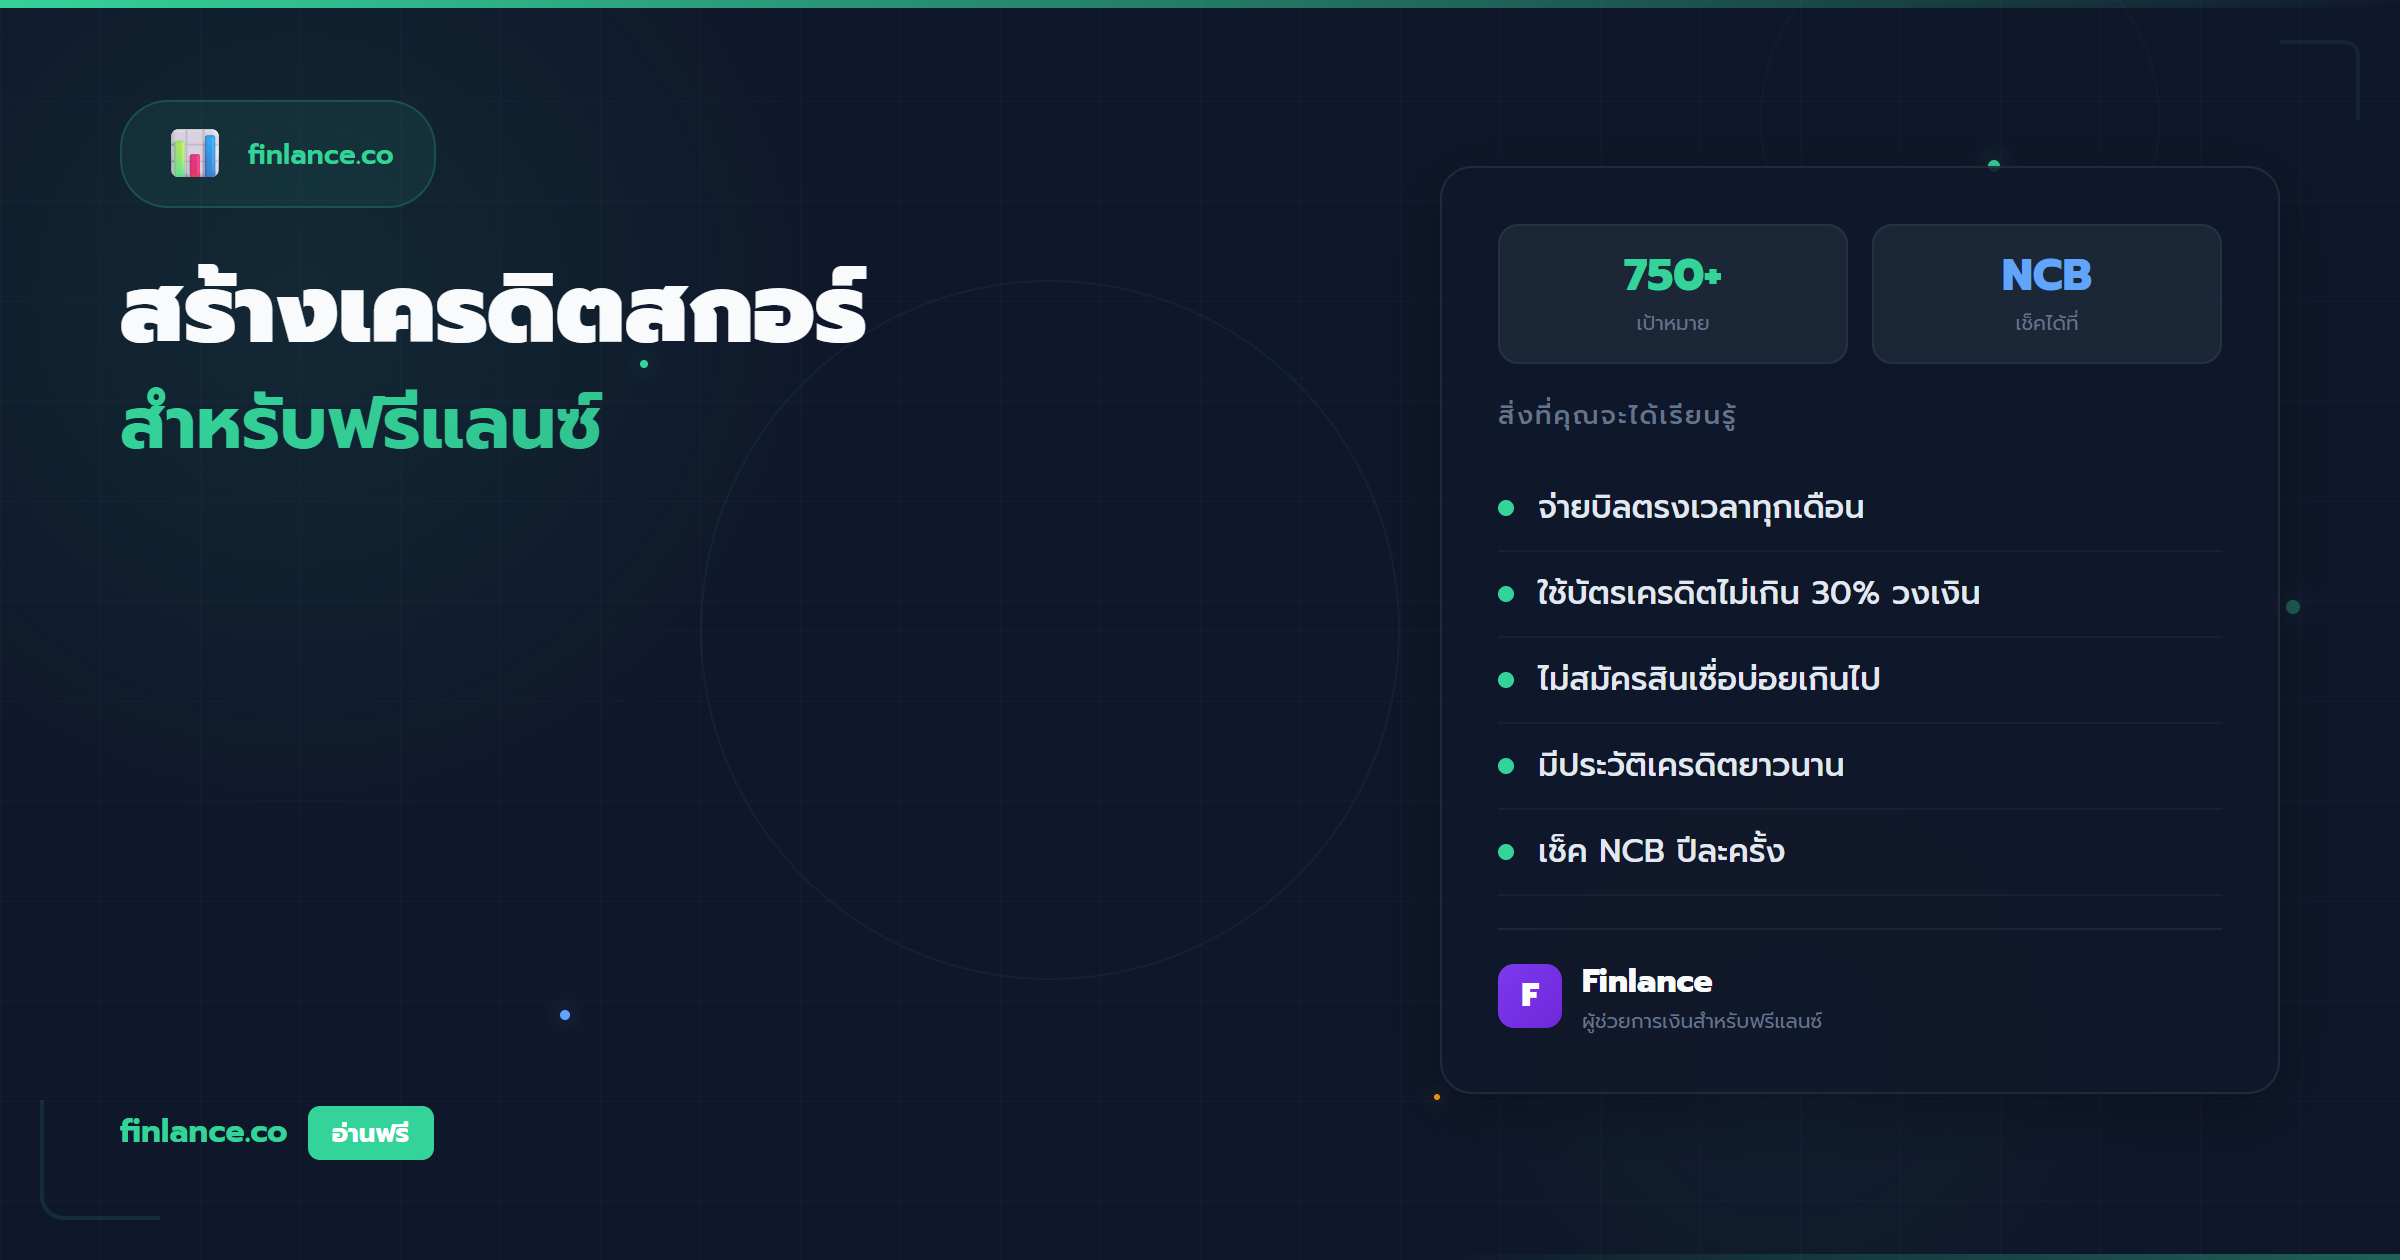
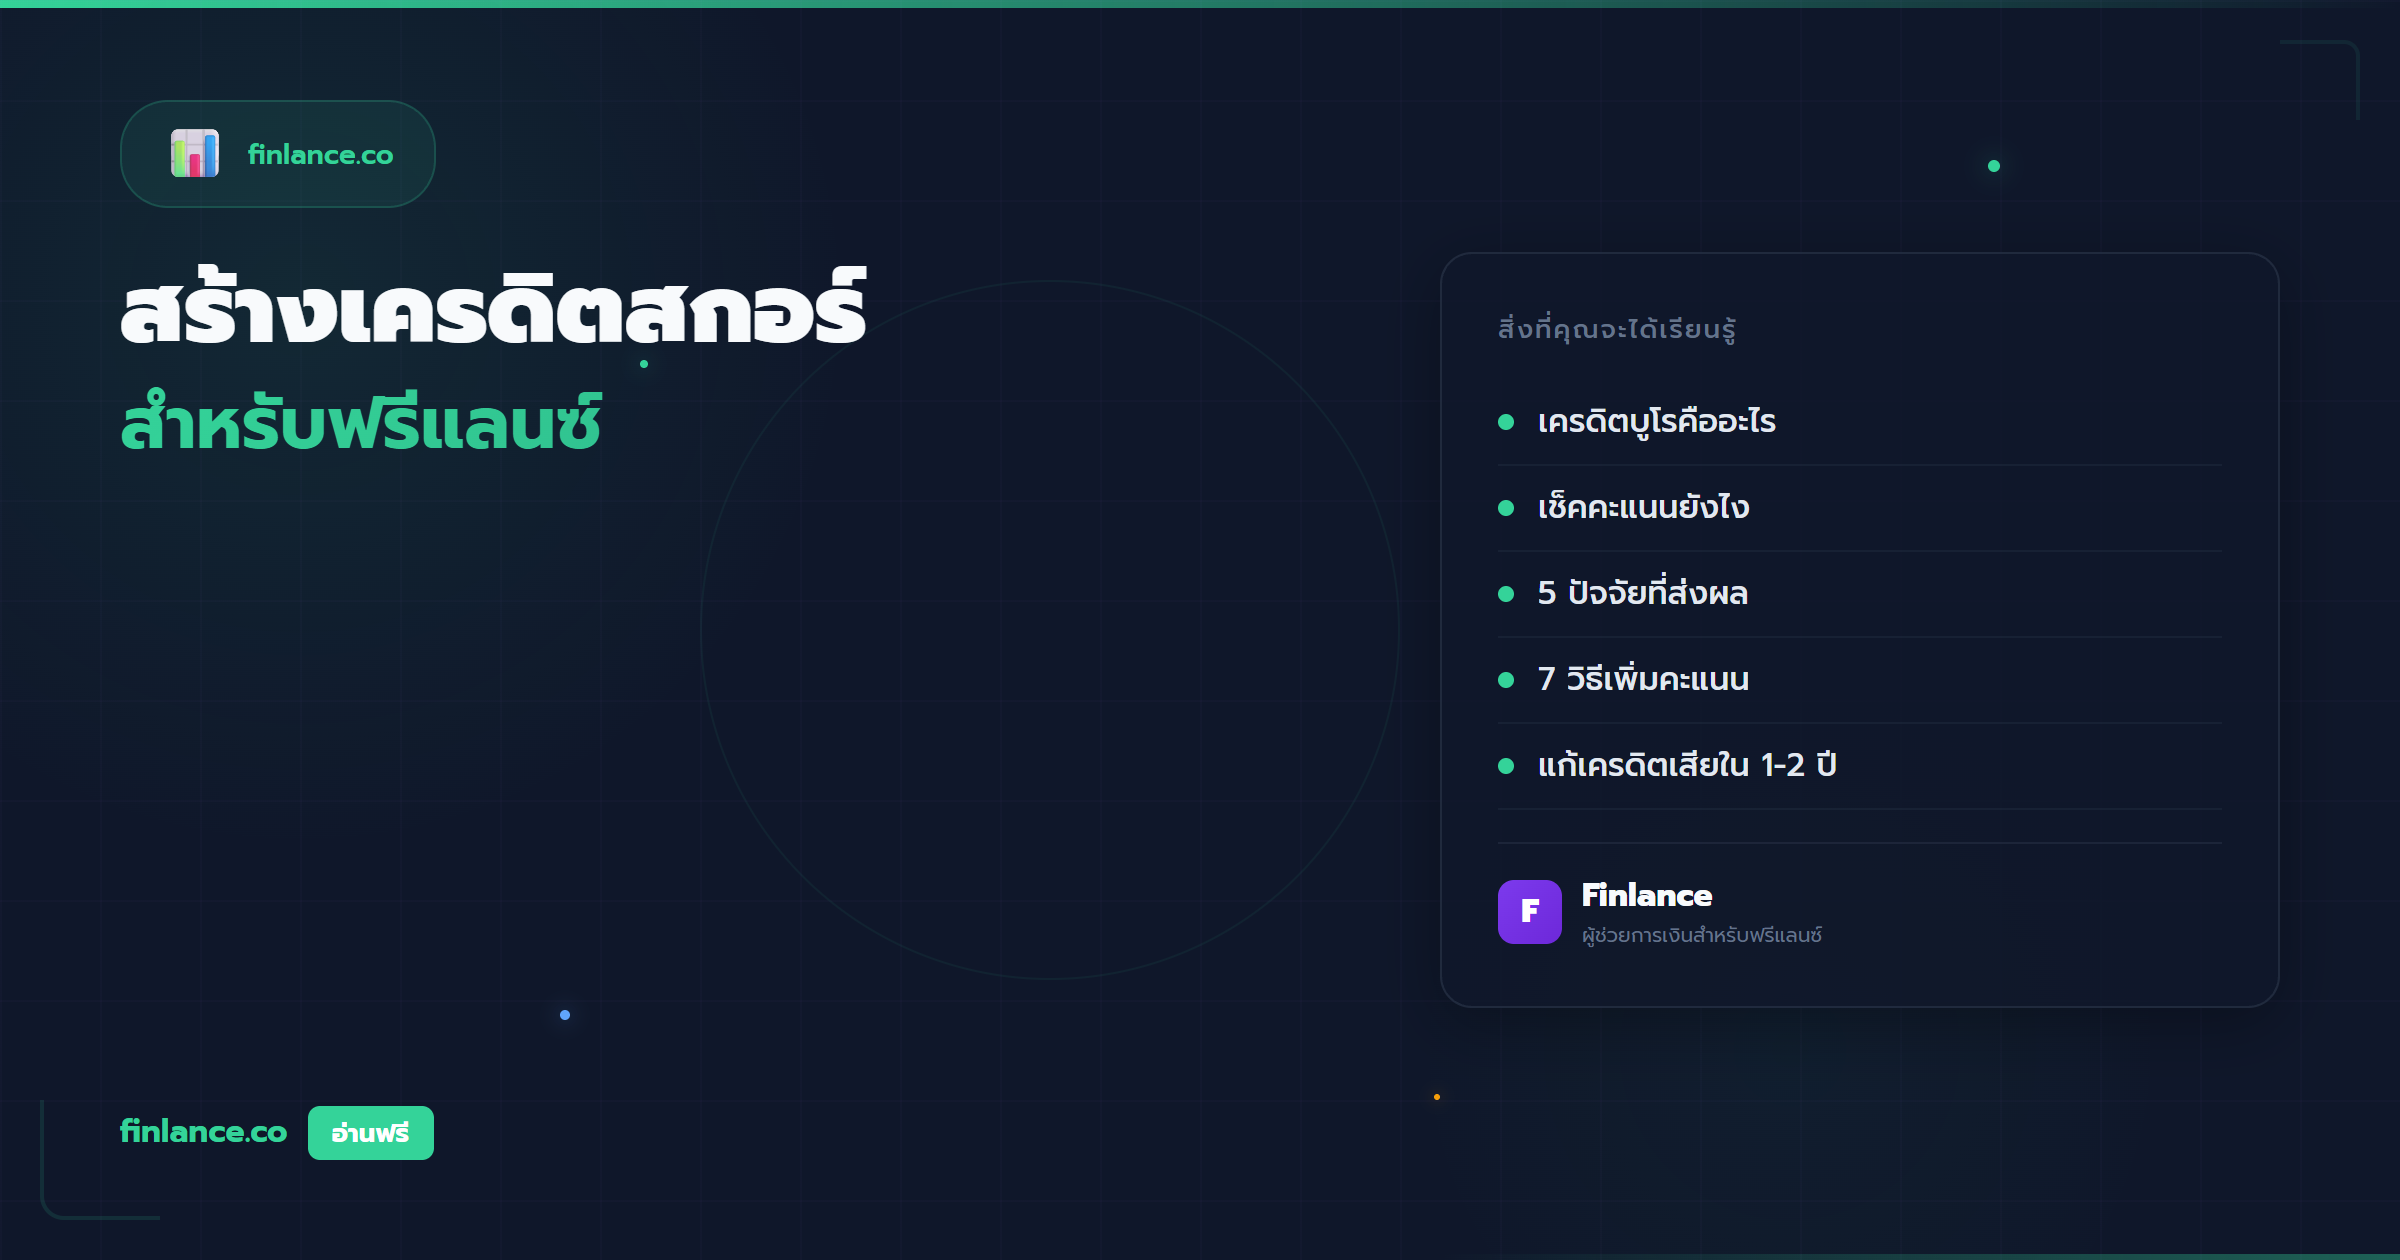
Render Day 2 covers as PNG via Puppeteer — matching quality
All 6 remaining Day 2 covers now use Puppeteer-rendered PNGs
with rich backgrounds, grid, floating dots, gradient bars.
Matches quality of Day 2 articles 1-4.

diff --git a/src/app/blog/page.tsx b/src/app/blog/page.tsx
@@ -16,12 +16,12 @@ export const metadata: Metadata = {
 };
 
 const posts = [
-  { slug: "freelance-stock-investment-guide", title: "ลงทุนหุ้นสำหรับฟรีแลนซ์ เริ่มต้นยังไงเมื่อรายได้ไม่แน่นอน", excerpt: "เปิดบัญชีหุ้น เลือกหุ้นปันผล ETF จัดพอร์ต และหลีกเลี่ยงข้อผิดพลาดมือใหม่", coverImage: "/blog/covers/stock-investment.svg", date: "2026-06-17" },
-  { slug: "freelance-life-insurance-savings", title: "ประกันชีวิตแบบออมทรัพย์สำหรับฟรีแลนซ์ คุ้มไหม เลือกยังไง", excerpt: "เปรียบเทียบสะสมทรัพย์ ยูนิตลิงค์ ตลอดชีพ วิธีลดหย่อนภาษี 100,000 บาท", coverImage: "/blog/covers/life-insurance-savings.svg", date: "2026-06-17" },
-  { slug: "freelance-refinance-guide", title: "รีไฟแนนซ์สินเชื่อสำหรับฟรีแลนซ์ คุ้มไหม เมื่อไหร่ควรทำ", excerpt: "คำนวณจุดคุ้มทุน เปรียบเทียบรีไฟแนนซ์บ้าน รถ บัตรเครดิต", coverImage: "/blog/covers/refinance.svg", date: "2026-06-17" },
-  { slug: "freelance-credit-score-building", title: "ฟรีแลนซ์สร้างเครดิตสกอร์ยังไง คู่มือเพิ่มคะแนนเครดิตบูโร", excerpt: "เครดิตบูโรคืออะไร วิธีเช็ค ปัจจัยที่ส่งผล 7 วิธีเพิ่มคะแนน", coverImage: "/blog/covers/credit-score.svg", date: "2026-06-16" },
-  { slug: "freelance-business-bank-account", title: "เปิดบัญชีธุรกิจสำหรับฟรีแลนซ์ ธนาคารไหนดี", excerpt: "เปรียบเทียบ กสิกร SCB กรุงไทย BBL TTB วิธีเปิดบัญชี PromptPay ธุรกิจ", coverImage: "/blog/covers/business-bank-account.svg", date: "2026-06-16" },
-  { slug: "freelance-credit-card-guide", title: "บัตรเครดิตสำหรับฟรีแลนซ์ สมัครยังไงให้ผ่าน", excerpt: "เปรียบเทียบ 5 บัตร เอกสาร เทคนิคเพิ่มโอกาสผ่าน วิธีใช้อย่างฉลาด", coverImage: "/blog/covers/credit-card.svg", date: "2026-06-16" },
+  { slug: "freelance-stock-investment-guide", title: "ลงทุนหุ้นสำหรับฟรีแลนซ์ เริ่มต้นยังไงเมื่อรายได้ไม่แน่นอน", excerpt: "เปิดบัญชีหุ้น เลือกหุ้นปันผล ETF จัดพอร์ต และหลีกเลี่ยงข้อผิดพลาดมือใหม่", coverImage: "/blog/covers/stock-investment.png", date: "2026-06-17" },
+  { slug: "freelance-life-insurance-savings", title: "ประกันชีวิตแบบออมทรัพย์สำหรับฟรีแลนซ์ คุ้มไหม เลือกยังไง", excerpt: "เปรียบเทียบสะสมทรัพย์ ยูนิตลิงค์ ตลอดชีพ วิธีลดหย่อนภาษี 100,000 บาท", coverImage: "/blog/covers/life-insurance-savings.png", date: "2026-06-17" },
+  { slug: "freelance-refinance-guide", title: "รีไฟแนนซ์สินเชื่อสำหรับฟรีแลนซ์ คุ้มไหม เมื่อไหร่ควรทำ", excerpt: "คำนวณจุดคุ้มทุน เปรียบเทียบรีไฟแนนซ์บ้าน รถ บัตรเครดิต", coverImage: "/blog/covers/refinance.png", date: "2026-06-17" },
+  { slug: "freelance-credit-score-building", title: "ฟรีแลนซ์สร้างเครดิตสกอร์ยังไง คู่มือเพิ่มคะแนนเครดิตบูโร", excerpt: "เครดิตบูโรคืออะไร วิธีเช็ค ปัจจัยที่ส่งผล 7 วิธีเพิ่มคะแนน", coverImage: "/blog/covers/credit-score.png", date: "2026-06-16" },
+  { slug: "freelance-business-bank-account", title: "เปิดบัญชีธุรกิจสำหรับฟรีแลนซ์ ธนาคารไหนดี", excerpt: "เปรียบเทียบ กสิกร SCB กรุงไทย BBL TTB วิธีเปิดบัญชี PromptPay ธุรกิจ", coverImage: "/blog/covers/business-bank-account.png", date: "2026-06-16" },
+  { slug: "freelance-credit-card-guide", title: "บัตรเครดิตสำหรับฟรีแลนซ์ สมัครยังไงให้ผ่าน", excerpt: "เปรียบเทียบ 5 บัตร เอกสาร เทคนิคเพิ่มโอกาสผ่าน วิธีใช้อย่างฉลาด", coverImage: "/blog/covers/credit-card.png", date: "2026-06-16" },
   { slug: "freelance-home-loan-mortgage-guide", title: "ฟรีแลนซ์กู้บ้านยังไงให้ผ่าน", excerpt: "คู่มือกู้บ้านสำหรับฟรีแลนซ์ เตรียมเอกสาร เพิ่มโอกาสผ่าน ดอกเบี้ย และข้อควรระวัง", coverImage: "/blog/covers/home-loan-mortgage.png", date: "2026-06-14" },
   { slug: "freelance-credit-card-application-guide", title: "ฟรีแลนซ์สมัครบัตรเครดิตได้ไหม ทำยังไงให้ผ่าน", excerpt: "เงื่อนไข เอกสาร บัตรที่สมัครง่าย และเคล็ดลับเพิ่มโอกาสผ่านสำหรับฟรีแลนซ์", coverImage: "/blog/covers/credit-card-application.png", date: "2026-06-13" },
   { slug: "freelance-car-loan-guide", title: "ฟรีแลนซ์กู้รถ เตรียมเอกสารยังไง", excerpt: "เอกสาร ดาวน์ขั้นต่ำ ดอกเบี้ย ระยะเวลาผ่อน และกฎ 20% ที่ช่วยให้ผ่อนสบาย", coverImage: "/blog/covers/car-loan.png", date: "2026-06-12" },
@@ -106,7 +106,7 @@ const posts = [
   { slug: "freelance-savings-high-yield-account", title: "บัญชีออมทรัพย์ดอกเบี้ยสูง 2569 ฟรีแลนซ์เก็บเงินที่ไหนดี", excerpt: "เปรียบเทียบบัญชีออมทรัพย์ดอกเบี้ยสูงในไทย 2569 TTB ME Save, KBank MAKE, SCB EasyApp พร้อมแนะนำกลยุทธ์ฝากเงินสำหรับฟรีแลนซ์", coverImage: "/blog/covers/savings-account.svg", date: "2026-04-08" },
   { slug: "freelance-coworking-space-vs-home", title: "Co-working Space vs ทำงานที่บ้าน เปรียบเทียบต้นทุนและประสิทธิภาพ", excerpt: "ทำงานที่บ้านหรือไป co-working space ดีกว่ากัน? เปรียบเทียบต้นทุน ประสิทธิภาพ และความเหมาะสมสำหรับฟรีแลนซ์แต่ละประเภท", coverImage: "/blog/covers/coworking.svg", date: "2026-04-07" },
   { slug: "freelance-retainer-contract-recurring-income", title: "Retainer Contract สร้างรายได้ประจำสำหรับฟรีแลนซ์", excerpt: "หยุดหาลูกค้าใหม่ทุกเดือน เรียนรู้วิธีสร้าง Retainer Contract ที่ให้รายได้สม่ำเสมอ พร้อมตัวอย่างแพ็กเกจและวิธีเสนอลูกค้า", coverImage: "/blog/covers/retainer-contract.svg", date: "2026-04-06" },
-  { slug: "freelance-credit-card-business-expenses", title: "ใช้บัตรเครดิตให้เป็นประโยชน์ เคล็ดลับบัตรเครดิตสำหรับฟรีแลนซ์", excerpt: "บัตรเครดิตไม่ใช่ศัตรู ถ้าใช้เป็นจะเป็นเครื่องมือทรงพลัง เรียนรู้วิธีใช้บัตรเครดิตเป็น cash flow buffer และสะสมแต้มจากค่าใช้จ่ายธุรกิจ", coverImage: "/blog/covers/credit-card.svg", date: "2026-04-05" },
+  { slug: "freelance-credit-card-business-expenses", title: "ใช้บัตรเครดิตให้เป็นประโยชน์ เคล็ดลับบัตรเครดิตสำหรับฟรีแลนซ์", excerpt: "บัตรเครดิตไม่ใช่ศัตรู ถ้าใช้เป็นจะเป็นเครื่องมือทรงพลัง เรียนรู้วิธีใช้บัตรเครดิตเป็น cash flow buffer และสะสมแต้มจากค่าใช้จ่ายธุรกิจ", coverImage: "/blog/covers/credit-card.png", date: "2026-04-05" },
   { slug: "freelance-separate-personal-business-account", title: "แยกบัญชีส่วนตัวกับบัญชีธุรกิจ ทำไมฟรีแลนซ์ต้องแยก?", excerpt: "เงินเข้าออกปนกัน ไม่รู้กำไรจริง ยื่นภาษีลำบาก เรียนรู้วิธีแยกบัญชีส่วนตัวกับธุรกิจ พร้อมขั้นตอนปฏิบัติจริง", coverImage: "/blog/covers/separate-accounts.svg", date: "2026-04-04" },
   { slug: "freelance-late-payment-collection-guide", title: "ลูกค้าจ่ายช้า ทวงยังไงให้ได้เงิน ไม่เสียลูกค้า", excerpt: "ปัญหาลูกค้าจ่ายเงินช้าเป็นเรื่องปกติของฟรีแลนซ์ เรียนรู้วิธีทวงหนี้อย่างมืออาชีพ 4 ระดับ พร้อมตัวอย่างข้อความ", coverImage: "/blog/covers/late-payment.svg", date: "2026-04-03" },
   { slug: "freelance-e-filing-rd-guide", title: "วิธียื่นภาษีออนไลน์ e-Filing ทีละขั้นตอน สำหรับฟรีแลนซ์ 2569", excerpt: "คู่มือยื่นภาษีออนไลน์ผ่าน rd.go.th ทีละขั้นตอน ตั้งแต่สมัครสมาชิก กรอกรายได้ ค่าลดหย่อน จนถึงชำระภาษีหรือขอคืน", coverImage: "/blog/covers/e-filing.svg", date: "2026-04-02" },
